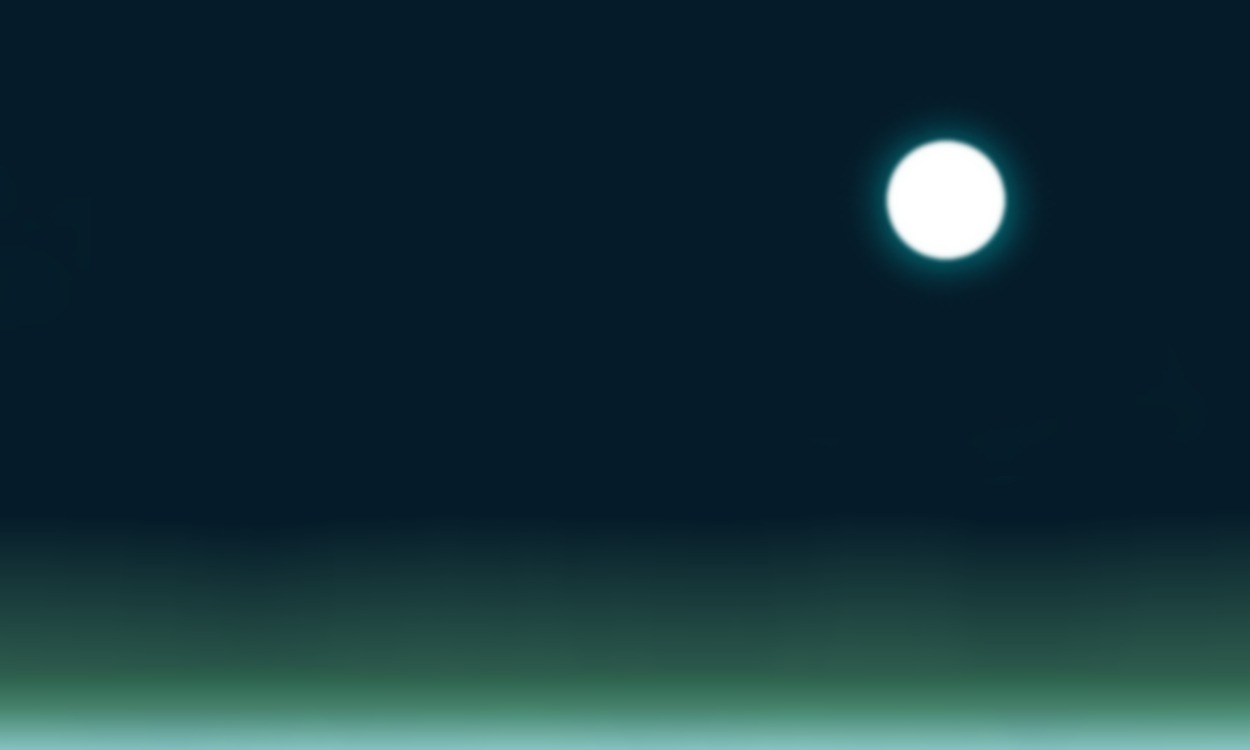
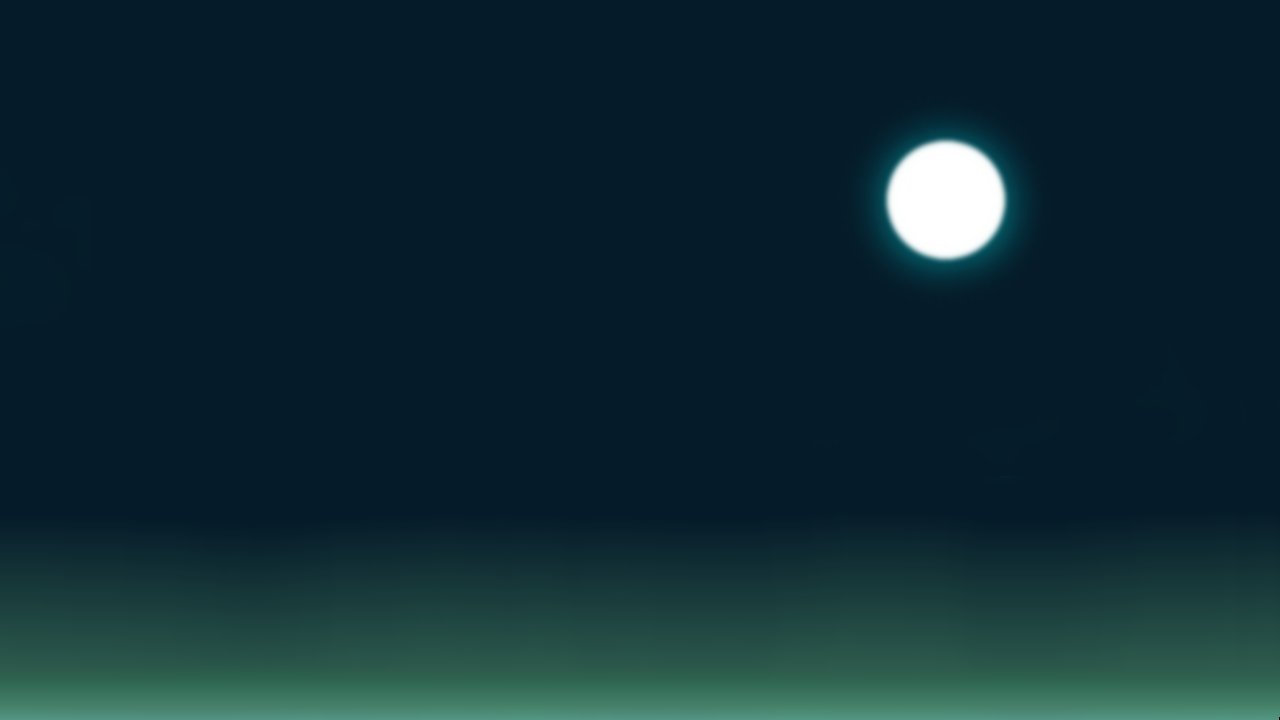
removed "the one ring". Improved forest level changed inf backgrounds to the correct size changed spike tiles bounding boxes spike tiles now DOT

Changed region(s): [[0.0, 0.9167, 1.0, 1.0], [0.6864, 0.1833, 0.8424, 0.3972]]

diff --git a/src/Level/DynamicTiles/SpikesBottomTile.cpp b/src/Level/DynamicTiles/SpikesBottomTile.cpp
@@ -2,9 +2,9 @@
 #include "Spell.h"
 
 void SpikesBottomTile::init() {
-	setPositionOffset(sf::Vector2f(0.f, -25.f));
-	setSpriteOffset(sf::Vector2f(0.f, -25.f));
-	setBoundingBox(sf::FloatRect(0.f, 0.f, 50.f, 25.f));
+	setPositionOffset(sf::Vector2f(-5.f, -25.f));
+	setSpriteOffset(sf::Vector2f(-5.f, -25.f));
+	setBoundingBox(sf::FloatRect(0.f, 0.f, 40.f, 25.f));
 }
 
 void SpikesBottomTile::load(int skinNr) {
@@ -33,6 +33,11 @@ void SpikesBottomTile::update(const sf::Time& frameTime) {
 void SpikesBottomTile::onHit(LevelMovableGameObject* mob) {
 	if (m_damageCooldown == sf::Time::Zero) {
 		mob->addDamage(DMG_PER_S, DamageType::Physical);
+		DamageOverTimeData data;
+		data.damageType = DamageType::Physical;
+		data.damage = static_cast<int>(DMG_PER_S / 3.f);
+		data.duration = sf::seconds(2);
+		mob->addDamageOverTime(data);
 		m_damageCooldown = sf::seconds(1);
 	}
 }

diff --git a/src/Spells/SpellData.cpp b/src/Spells/SpellData.cpp
@@ -368,11 +368,12 @@ SpellData SpellData::getWindGustSpellData() {
 
 	windGust.iconTextureRect = sf::IntRect(150, 0, 50, 50);
 	windGust.cooldown = sf::seconds(3);
-	windGust.boundingBox = sf::FloatRect(0, 0, 60, 40);
+	windGust.range = 50.f;
+	windGust.boundingBox = sf::FloatRect(0, 0, windGust.range, 40);
 	windGust.duration = sf::seconds(1);
 	windGust.activeDuration = windGust.duration;
 
-	windGust.rangeModifierAddition = 20.f;
+	windGust.rangeModifierAddition = 50.f;
 	windGust.durationModifierAddition = sf::seconds(1);
 
 	return windGust;

diff --git a/src/Level/DynamicTiles/SpikesTopTile.cpp b/src/Level/DynamicTiles/SpikesTopTile.cpp
@@ -33,6 +33,11 @@ void SpikesTopTile::update(const sf::Time& frameTime) {
 void SpikesTopTile::onHit(LevelMovableGameObject* mob) {
 	if (m_damageCooldown == sf::Time::Zero) {
 		mob->addDamage(DMG_PER_S, DamageType::Physical);
+		DamageOverTimeData data;
+		data.damageType = DamageType::Physical;
+		data.damage = static_cast<int>(DMG_PER_S / 3.f);
+		data.duration = sf::seconds(2);
+		mob->addDamageOverTime(data);
 		m_damageCooldown = sf::seconds(1);
 	}
 }

diff --git a/src/GUI/SpellSlot.cpp b/src/GUI/SpellSlot.cpp
@@ -69,7 +69,6 @@ void SpellSlot::initSpellSlot() {
 
 	m_gemsRect.setSize(sf::Vector2f(SIZE, SIZE));
 	m_gemsRect.setTexture(g_resourceManager->getTexture(ResourceID::Texture_GUI_slot_spell_gems));
-	cout << (int)m_spellType << endl;
 	switch (m_spellType) {
 	case SpellType::Elemental:
 		m_gemsRect.setFillColor(CENDRIC_COLOR_ELEMENTAL);

diff --git a/include/Level/DynamicTiles/SpikesBottomTile.h b/include/Level/DynamicTiles/SpikesBottomTile.h
@@ -13,6 +13,6 @@ public:
 	void update(const sf::Time& frameTime) override;
 
 private:
-	const int DMG_PER_S = 500;
+	const int DMG_PER_S = 50;
 	sf::Time m_damageCooldown = sf::Time::Zero;
 };

diff --git a/include/Level/DynamicTiles/SpikesTopTile.h b/include/Level/DynamicTiles/SpikesTopTile.h
@@ -13,6 +13,6 @@ public:
 	void update(const sf::Time& frameTime) override;
 
 private:
-	const int DMG_PER_S = 300;
+	const int DMG_PER_S = 50;
 	sf::Time m_damageCooldown = sf::Time::Zero;
 };
